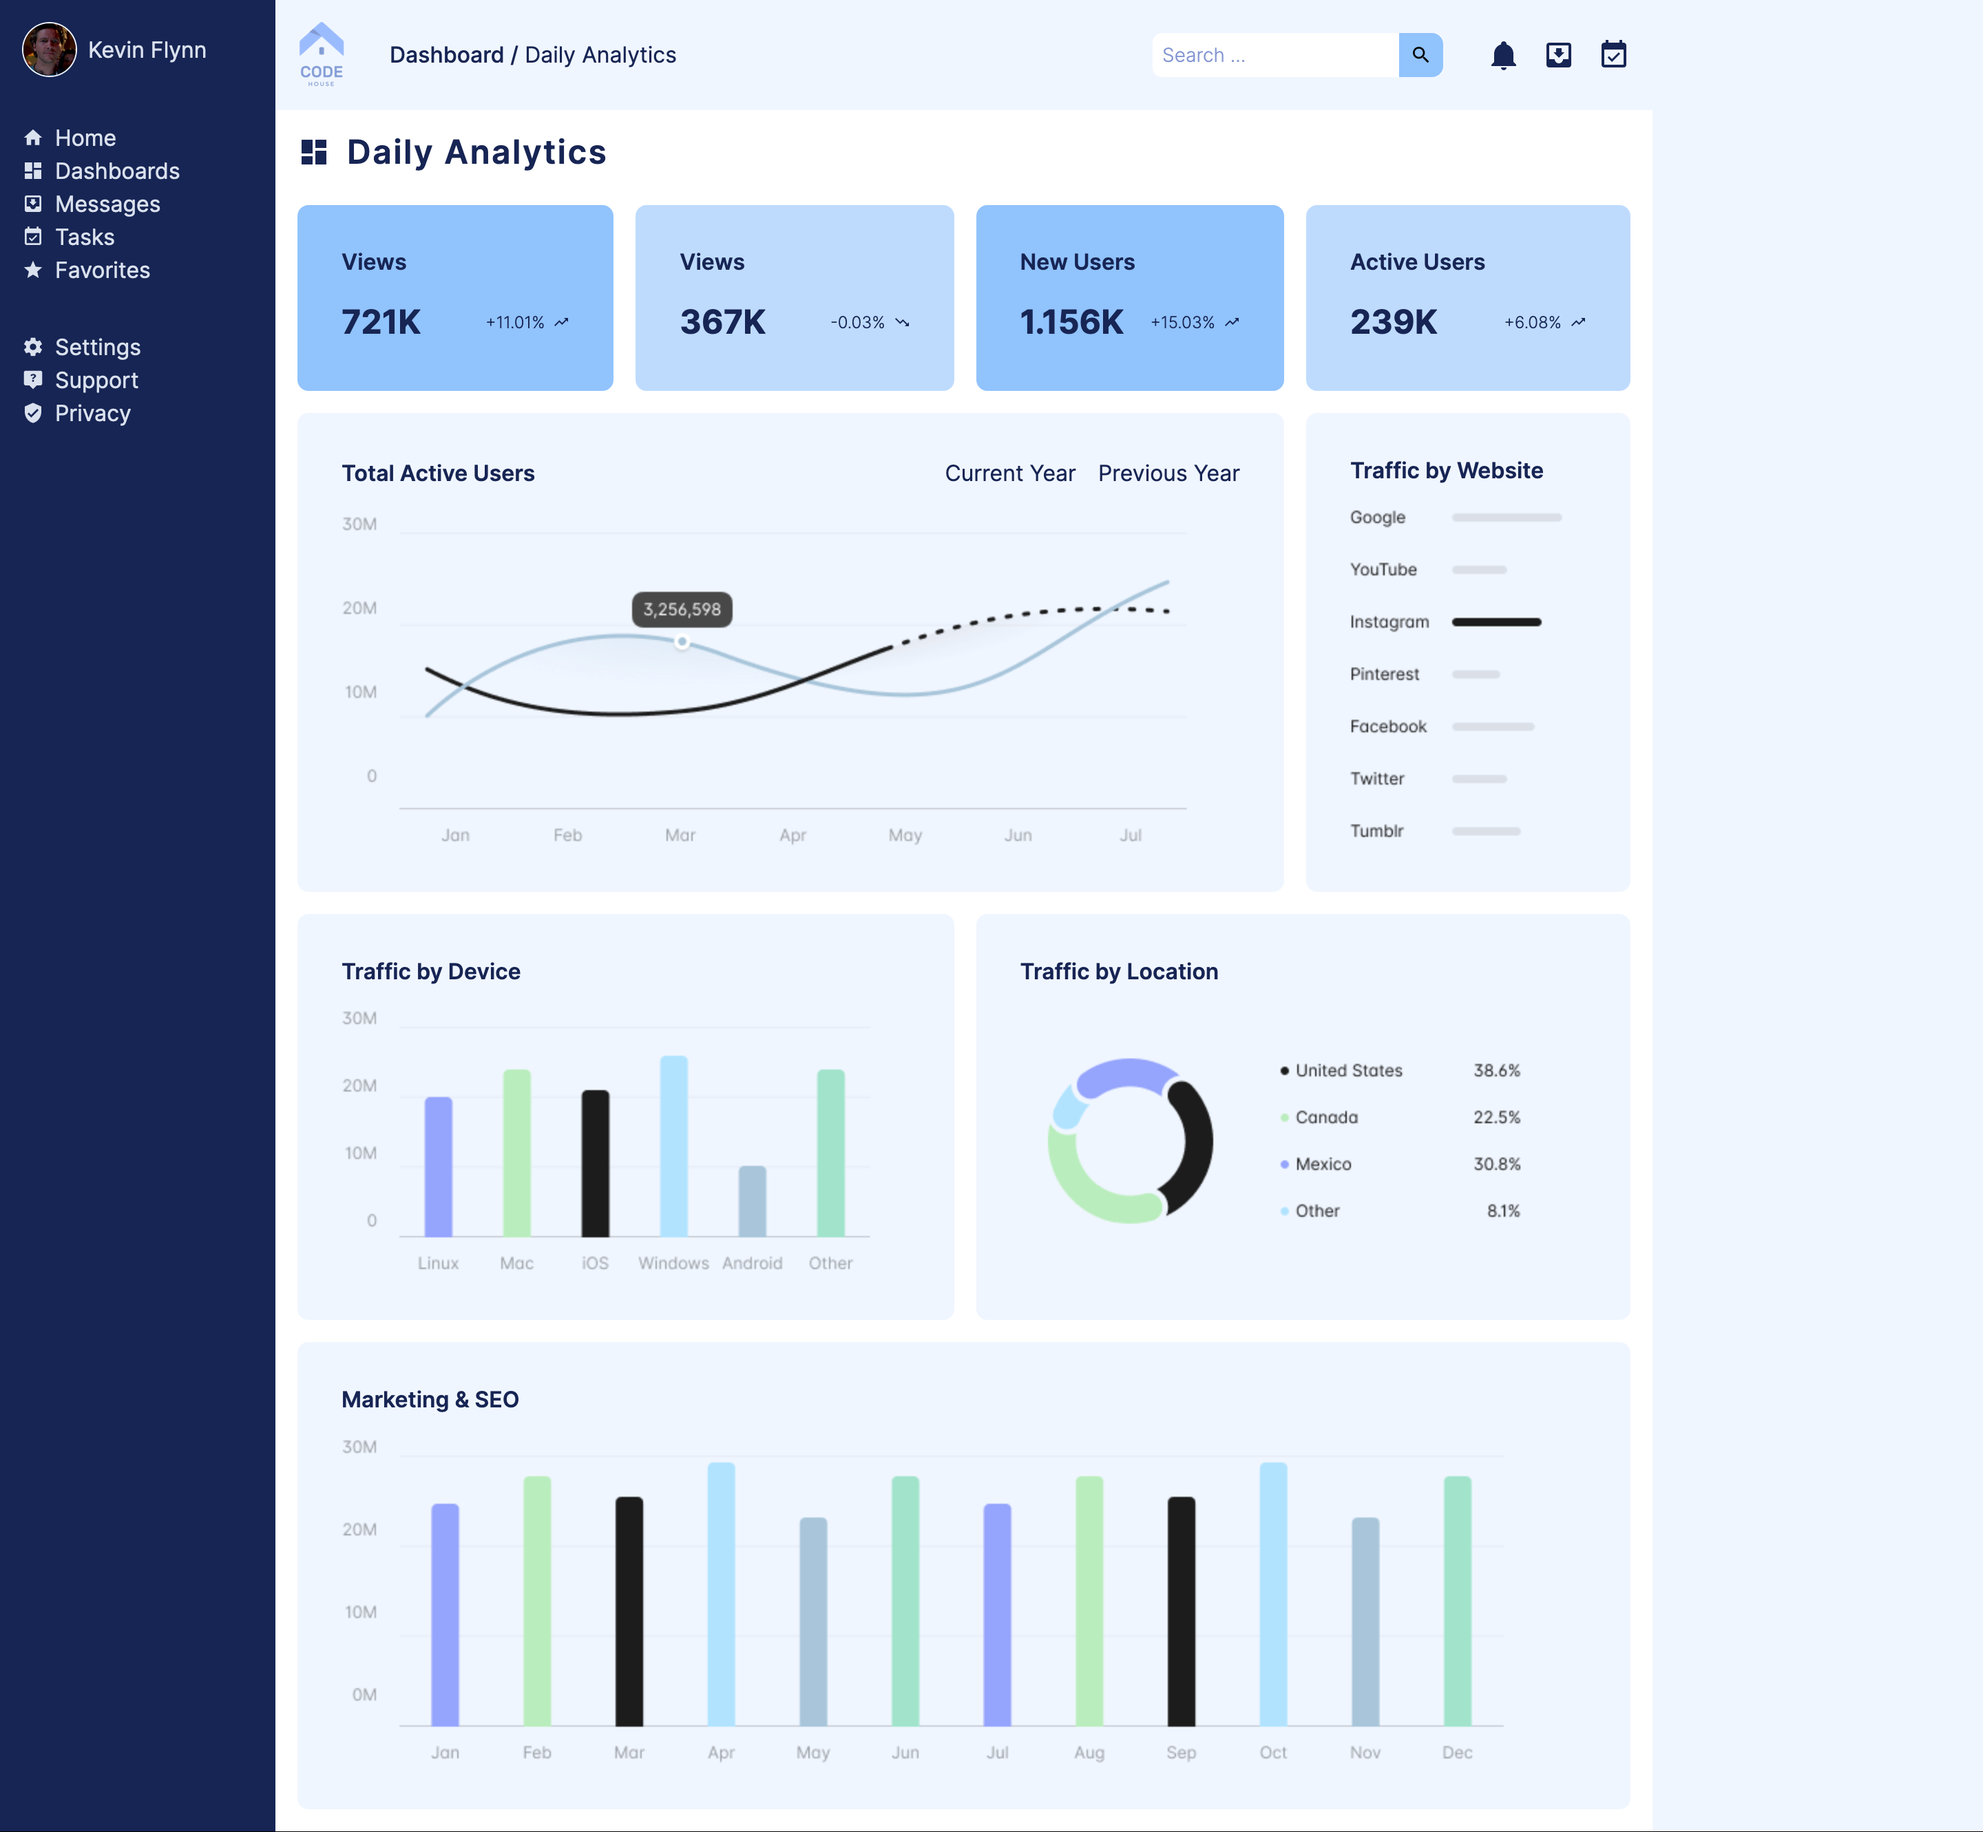
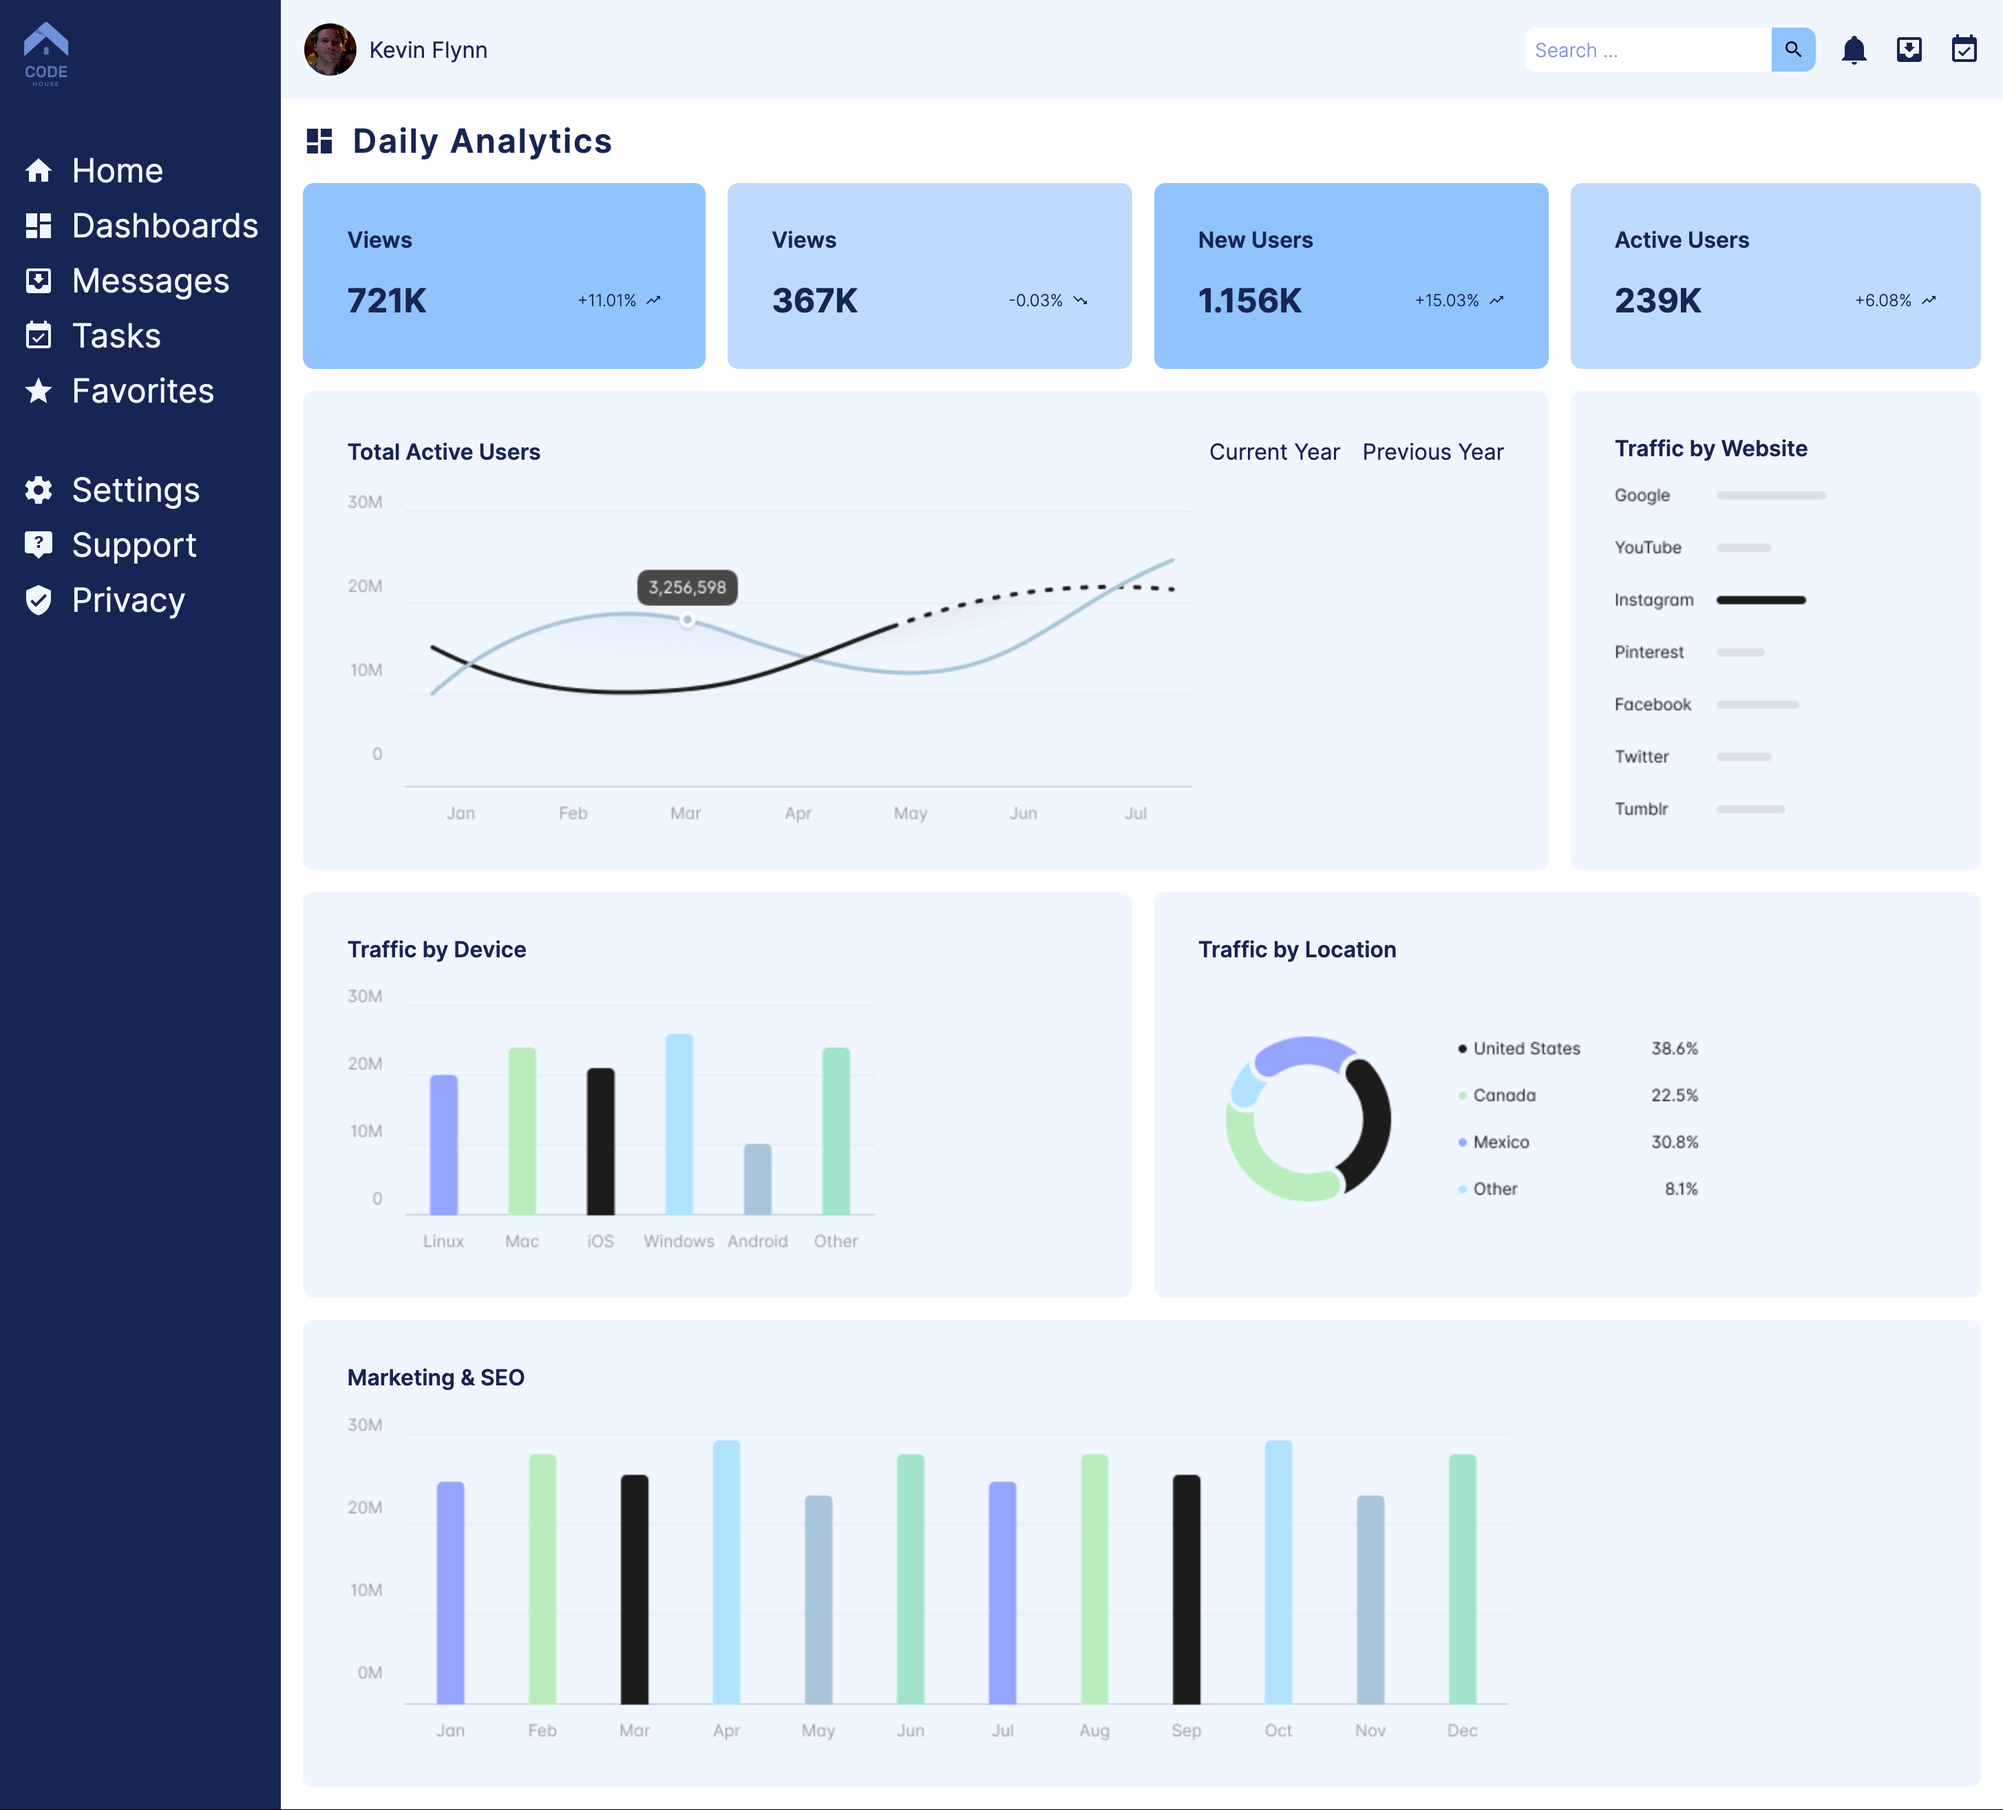
Add screenshots to README.md

diff --git a/README.md b/README.md
@@ -20,16 +20,18 @@ I started by looking at existing admin dashboards from competitors such as Click
 - Used **Git** and **GitHub** for project management
 - Responsive for both Desktop & Mobile
 
+### Desktop Preview
+![Alt text](images/desktop-preview.png "a title")
+
+### Mobile Preview
+![Alt text](images/mobile-preview.png "a title")
+
 ### Live Version
 **[Admin Dashboard](https://ryanthayes.github.io/top-rock-admin-dashboard/)**
 
 ### Built With
 
  ![HTML5](https://img.shields.io/badge/html5-%23E34F26.svg?style=for-the-badge&logo=html5&logoColor=white)   ![CSS3](https://img.shields.io/badge/css3-%231572B6.svg?style=for-the-badge&logo=css3&logoColor=white)   ![JavaScript](https://img.shields.io/badge/javascript-%23323330.svg?style=for-the-badge&logo=javascript&logoColor=%23F7DF1E)
-
-### Live site
-
-[Admin Dashboard](https://ryanthayes.github.io/top-admin-dashboard/)
 
 ## What I learned
 
